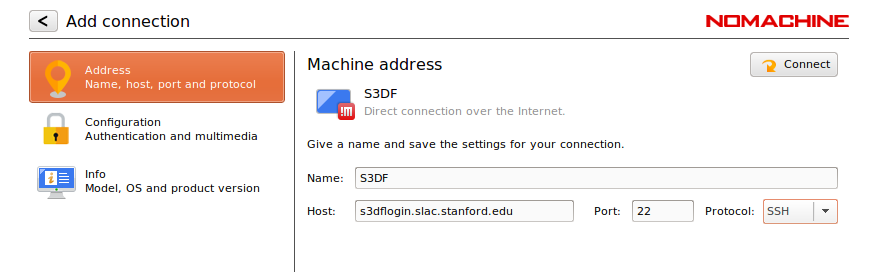
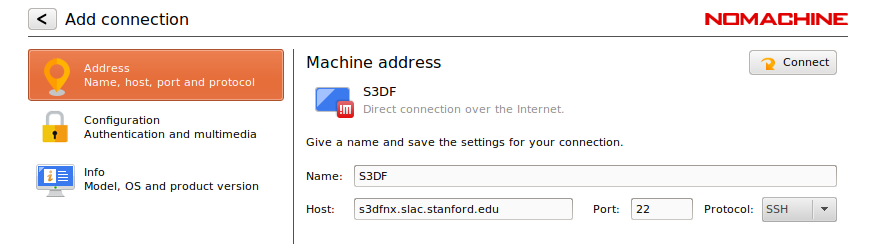
Change nomachine login pool name from s3dflogin to s3dfnx

Changed region(s): [[0.031, 0.0287, 0.9931, 0.8033], [0.3414, 0.5738, 0.9621, 0.918], [0.3414, 0.5164, 0.7138, 0.5451]]

diff --git a/accounts-and-access.md b/accounts-and-access.md
@@ -16,7 +16,7 @@ There are three mechanisms to access S3DF:
 
 1. **SSH**: You can connect using any SSH client, such as [OpenSSH](www.openssh.com) or [PuTTY](https://www.chiark.greenend.org.uk/~sgtatham/putty/), on the standard TCP port 22, to connect to the S3DF load balanced login pool `s3dflogin.slac.stanford.edu`.
 
-2. **NoMachine**: NoMachine provides a special remote desktop that is specifically designed to improve, compared to ssh, the performance of X11 graphics over slow connection speeds. Another important feature is that it preserves the state of your desktop across multiple sessions. The login pool for NoMachine is the same as for ssh, `s3dflogin.slac.stanford.edu`. You can find more information about this access mode in the [NoMachine reference](reference.md#nomachine).
+2. **NoMachine**: NoMachine provides a special remote desktop that is specifically designed to improve, compared to ssh, the performance of X11 graphics over slow connection speeds. Another important feature is that it preserves the state of your desktop across multiple sessions. The login pool for NoMachine is `s3dfnx.slac.stanford.edu`. You can find more information about this access mode in the [NoMachine reference](reference.md#nomachine).
 
 3. **OnDemand**: If you do not have a terminal handy or you want to use applications like Jupyter, you can also launch a web-based terminal using OnDemand: [`https://s3df.slac.stanford.edu/ondemand`](https://s3df.slac.stanford.edu/ondemand). You can find more information about using OnDemand in the [OnDemand reference](reference.md#ondemand). 
 

diff --git a/reference.md b/reference.md
@@ -6,7 +6,7 @@
 
 NoMachine is supported on Windows, MAC and Linux computers. You can get the latest version of the enterprise client from [NoMachine download page](https://www.nomachine.com/download-enterprise#NoMachine-Enterprise-Client). Ubuntu/Mint users should download the Debian version (DEB) of the NoMachine client. MAC Clients must install XCode and XQuartz.
 
-In order to access S3DF, host is set to s3dflogin.slac.stanford.edu, port to 22, and protocol to SSH. See the snapshots below for standard NoMachine settings for S3DF usage.
+In order to access S3DF, host is set to s3dfnx.slac.stanford.edu, port to 22, and protocol to SSH. See the snapshots below for standard NoMachine settings for S3DF usage.
 
 ![NX-connection](assets/nx-connection.png)
 ![NX-session](assets/nx-session.png)

diff --git a/README.md b/README.md
@@ -5,7 +5,7 @@ Welcome to the SLAC Shared Scientific Data Facility (S3DF). The S3DF is a comput
 | Access 	| Address | 
 | :--- | :--- |
 | SSH 	|  s3dflogin.slac.stanford.edu |
-| NoMachine |  s3dflogin.slac.stanford.edu |
+| NoMachine |  s3dfnx.slac.stanford.edu |
 | OnDemand 	| [https://s3df.slac.stanford.edu/ondemand](https://s3df.slac.stanford.edu/ondemand) 	|  	
 | Globus Endpoint 	| slac#s3df 	|  	
 | Documentation | [This!](/ ':ignore') |
